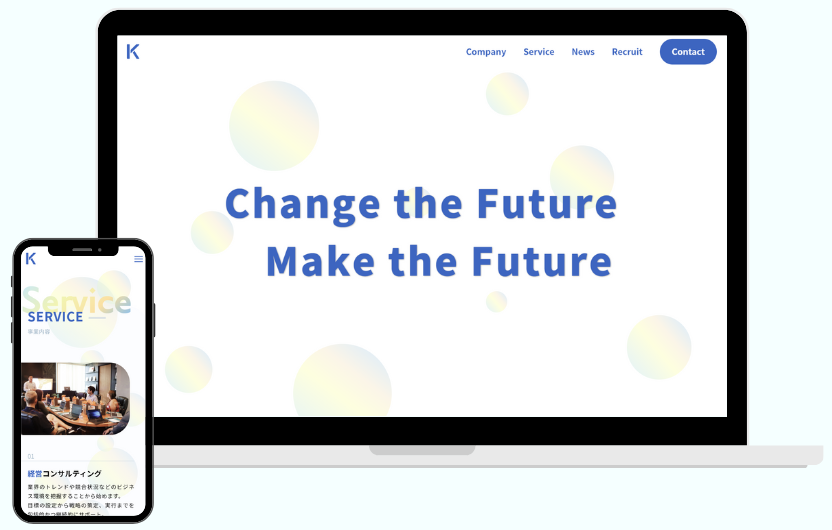
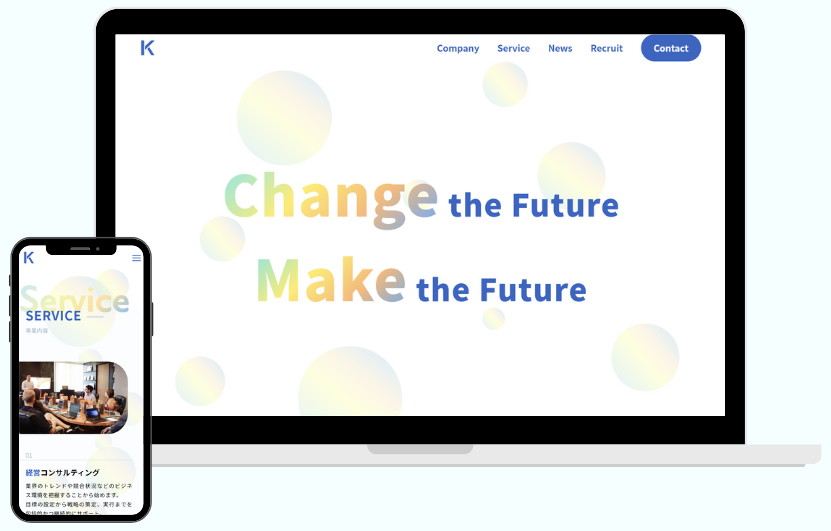
240124

diff --git a/src/index.html b/src/index.html
@@ -98,7 +98,7 @@
         <ul class="works__list works-list">
           <a class="works-list__item item" href="works.html#k-works" >
             <div class="item__image">
-              <img src="./assets/images/common/k-works.png" alt="架空コーポレートサイト「K-WORKS」の画面画像">
+              <img src="./assets/images/common/k-works2.png" alt="架空コーポレートサイト「K-WORKS」の画面画像">
             </div>
             <div class="item__body">
               <p class="item__info">架空コーポレートサイト</p>
